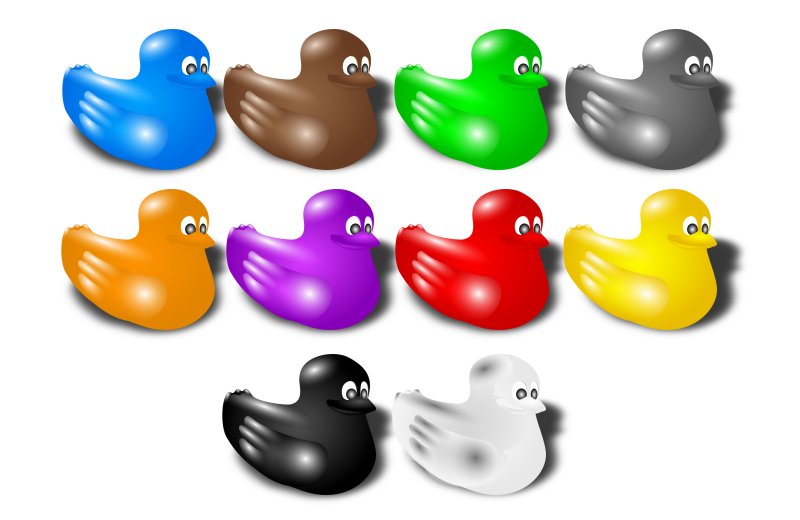
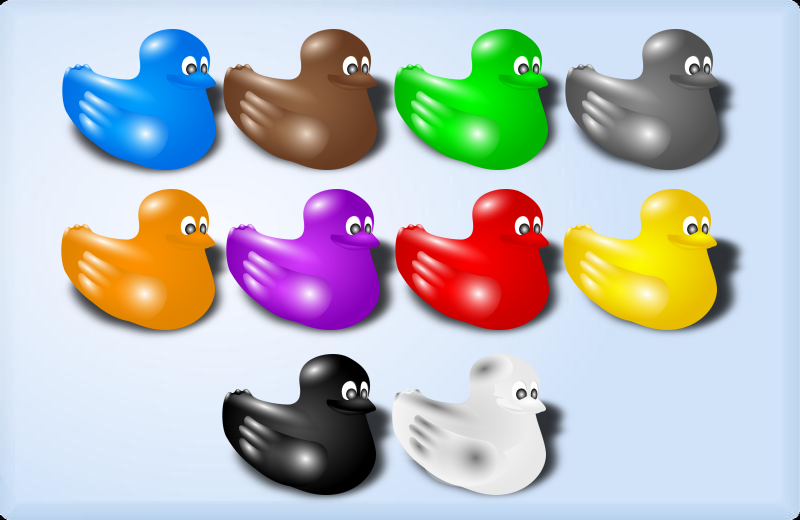
Vitali Perchonok is com gmail from vitali.pe 	Graphical improvements. Images taken from openclipart.
Matieu Ignacio: New original background for the target activity.

svn path=/trunk/; revision=3713

diff --git a/src/boards/reversecount.c b/src/boards/reversecount.c
@@ -88,41 +88,17 @@ static gchar *imageList[] =
   "opt/epaulard.png",
   "opt/narval.png",
 };
-#define NUMBER_OF_IMAGES 10
+#define NUM_IMAGELIST G_N_ELEMENTS(imageList)
 
 // List of fish to use in the game
 static gchar *fishList[] =
 {
-  "fishes/blueking2_0.png",
-  "fishes/butfish_0.png",
-  "fishes/cichlid1_0.png",
-  "fishes/cichlid4_0.png",
-  "fishes/collaris_0.png",
-  "fishes/discus2_0.png",
-  "fishes/discus3_0.png",
-  "fishes/eel_0.png",
-  "fishes/f00_0.png",
-  "fishes/f01_0.png",
-  "fishes/f02_0.png",
-  "fishes/f03_0.png",
-  "fishes/f04_0.png",
-  "fishes/f05_0.png",
-  "fishes/f06_0.png",
-  "fishes/f07_0.png",
-  "fishes/f08_0.png",
-  "fishes/f09_0.png",
-  "fishes/f10_0.png",
-  "fishes/f11_0.png",
-  "fishes/f12_0.png",
-  "fishes/f13_0.png",
-  "fishes/manta_0.png",
-  "fishes/newf1_0.png",
-  "fishes/QueenAngel_0.png",
-  "fishes/shark1_0.png",
-  "fishes/six_barred_0.png",
-  "fishes/teeth_0.png"
+  "images/fish00.png",
+  "images/fish01.png",
+  "images/fish02.png",
+  "images/fish03.png",
 };
-#define NUMBER_OF_FISHES 27
+#define NUMBER_OF_FISHES G_N_ELEMENTS(fishList)
 
 /* Description of this plugin */
 static BoardPlugin menu_bp =
@@ -330,6 +306,7 @@ static void process_ok()
 /* set initial values for the next level */
 static void reversecount_next_level()
 {
+  g_assert(NUM_IMAGELIST > gcomprisBoard->level-1);
 
   gc_set_background(gnome_canvas_root(gcomprisBoard->canvas),
 			  imageList[gcomprisBoard->level-1]);
@@ -529,7 +506,7 @@ static GnomeCanvasItem *reversecount_create_item(GnomeCanvasGroup *parent)
 
   //----------------------------------------
   // Create the dices
-  pixmap = gc_pixmap_load("gcompris/dice/gnome-dice1.png");
+  pixmap = gc_pixmap_load("gcompris/dice/small_dice_1.png");
 
   for(d=0; d<number_of_dices; d++)
     {
@@ -710,7 +687,7 @@ item_event(GnomeCanvasItem *item, GdkEvent *event, gint *dice_index)
 	  break;
 	}
 
-      str = g_strdup_printf("gcompris/dice/gnome-dice%d.png", dicevalue_array[i]);
+      str = g_strdup_printf("gcompris/dice/small_dice_%d.png", dicevalue_array[i]);
 
       pixmap = gc_pixmap_load(str);
 
@@ -742,7 +719,7 @@ static void create_clock(double x, double y, int value)
   if(value<0)
     return;
 
-  str = g_strdup_printf("%s%d.png", "gcompris/timers/clock",value);
+  str = g_strdup_printf("%s%d.png", "gcompris/timers/tux",value);
 
   pixmap = gc_pixmap_load(str);
 
@@ -765,7 +742,7 @@ static void update_clock(int value)
   if(value<0)
     return;
 
-  str = g_strdup_printf("%s%d.png", "gcompris/timers/clock",value);
+  str = g_strdup_printf("%s%d.png", "gcompris/timers/tux",value);
 
   pixmap = gc_pixmap_load(str);
 

diff --git a/src/gcompris/timer.c b/src/gcompris/timer.c
@@ -46,6 +46,8 @@ gc_timer_display(int ax, int ay, TimerList atype, int second, GcomprisTimerEnd a
   GdkFont *gdk_font;
   GdkPixbuf *pixmap = NULL;
   GcomprisProperties *properties = gc_prop_get();
+  char *image_prefix;
+
 
   /* Timer is not requested */
   if(properties->timer==0)
@@ -76,18 +78,28 @@ gc_timer_display(int ax, int ay, TimerList atype, int second, GcomprisTimerEnd a
     {
     case GCOMPRIS_TIMER_SAND:
     case GCOMPRIS_TIMER_CLOCK:
+    case GCOMPRIS_TIMER_TUX:
       {
 	gchar		*filefull = NULL;
 	gchar		*filename = NULL;
 	gint		fileid;
 
-	fileid = (gint)timer;
-	if(type==GCOMPRIS_TIMER_SAND)
-	  filename = g_strdup_printf("gcompris/timers/sablier%d.png", fileid);
-	else
-	  filename = g_strdup_printf("gcompris/timers/clock%d.png", fileid);
+	switch(type)
+	  {
+	  case GCOMPRIS_TIMER_SAND:
+	    image_prefix = "gcompris/timers/sablier%d.png";
+	  case GCOMPRIS_TIMER_CLOCK:
+	    image_prefix = "gcompris/timers/clock%d.png";
+	  case GCOMPRIS_TIMER_TUX:
+	    image_prefix = "gcompris/timers/tux%d.png";
+	  default:
+	    break;
+	  }
 
+	fileid = (gint)timer;
+	filename = g_strdup_printf(image_prefix, fileid);
 	filefull = g_strdup_printf("%s/%s", properties->package_data_dir, filename);
+
 	if (g_file_test ((filefull), G_FILE_TEST_EXISTS))
 	  {
 	    pixmap = gc_pixmap_load(filename);
@@ -221,6 +233,7 @@ start_animation()
     {
     case GCOMPRIS_TIMER_SAND:
     case GCOMPRIS_TIMER_CLOCK:
+    case GCOMPRIS_TIMER_TUX:
       /* No subanimation */
       break;
     case GCOMPRIS_TIMER_TEXT:

diff --git a/src/boards/target.c b/src/boards/target.c
@@ -376,7 +376,7 @@ static void display_windspeed()
   gnome_canvas_item_new (speedRootItem,
 			 gnome_canvas_line_get_type (),
 			 "points", canvasPoints,
-			 "fill_color_rgba", 0x6df438FF,
+			 "fill_color", "red",
 			 "width_units", (double)1,
 			 "width_pixels", (guint) 4,
 			 "last_arrowhead", TRUE,
@@ -394,7 +394,7 @@ static void display_windspeed()
 			 "y1", (double)SPEED_CENTER_Y-5,
 			 "x2", (double)SPEED_CENTER_X+5,
 			 "y2", (double)SPEED_CENTER_Y+5,
-			 "fill_color_rgba", 0x6df438FF,
+			 "fill_color", "red",
 			 "outline_color", "red",
 			 "width_units", (double)1,
 			 NULL);
@@ -475,7 +475,7 @@ static GnomeCanvasItem *target_create_item(GnomeCanvasGroup *parent)
 			 "x", (double) 0,
 			 "y", (double) BOARDHEIGHT-TARGET_CENTER_Y -45,
 			 "anchor", GTK_ANCHOR_CENTER,
-			 "fill_color", "white",
+			 "fill_color", "black",
 			 NULL);
   g_free(tmpstr);
 
@@ -550,7 +550,7 @@ static void request_score()
 				       "x", (double) x_offset + gdk_pixbuf_get_width(button_pixmap)/2,
 				       "y", (double) y_offset + gdk_pixbuf_get_height(button_pixmap)/2,
 				       "anchor", GTK_ANCHOR_CENTER,
-				       "fill_color", "white",
+				       "fill_color", "black",
 				       NULL);
   g_free(tmpstr);
 

diff --git a/src/gcompris/timer.h b/src/gcompris/timer.h
@@ -32,6 +32,7 @@ typedef enum
   GCOMPRIS_TIMER_SAND,
   GCOMPRIS_TIMER_BALLOON,
   GCOMPRIS_TIMER_CLOCK,
+  GCOMPRIS_TIMER_TUX,
 } TimerList;
 
 /* Callback when the timer is completed */
